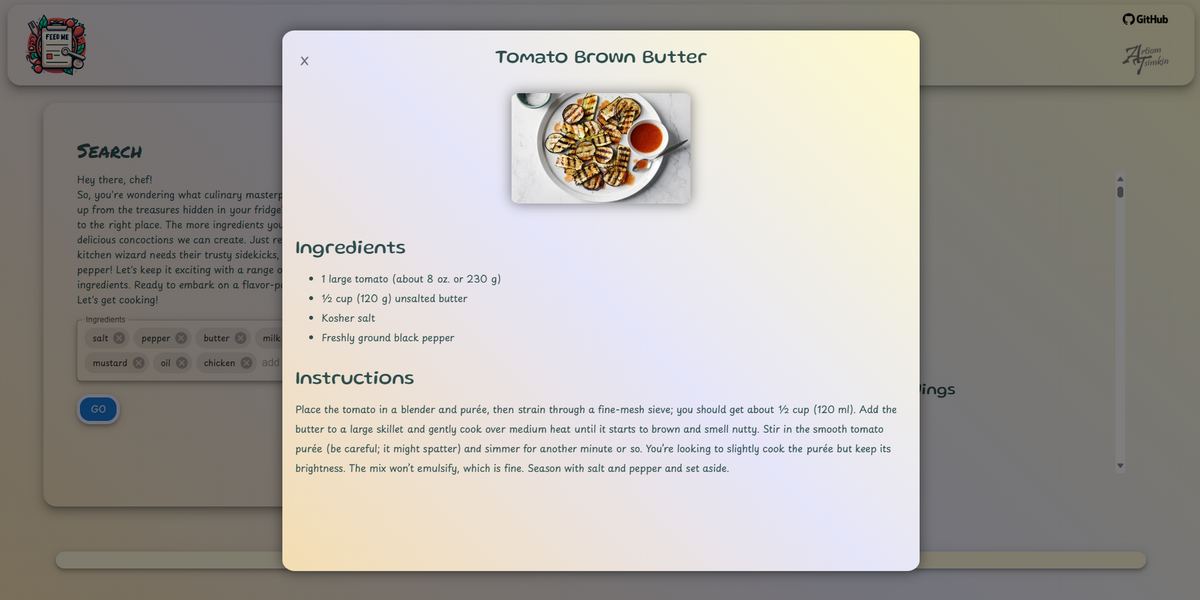
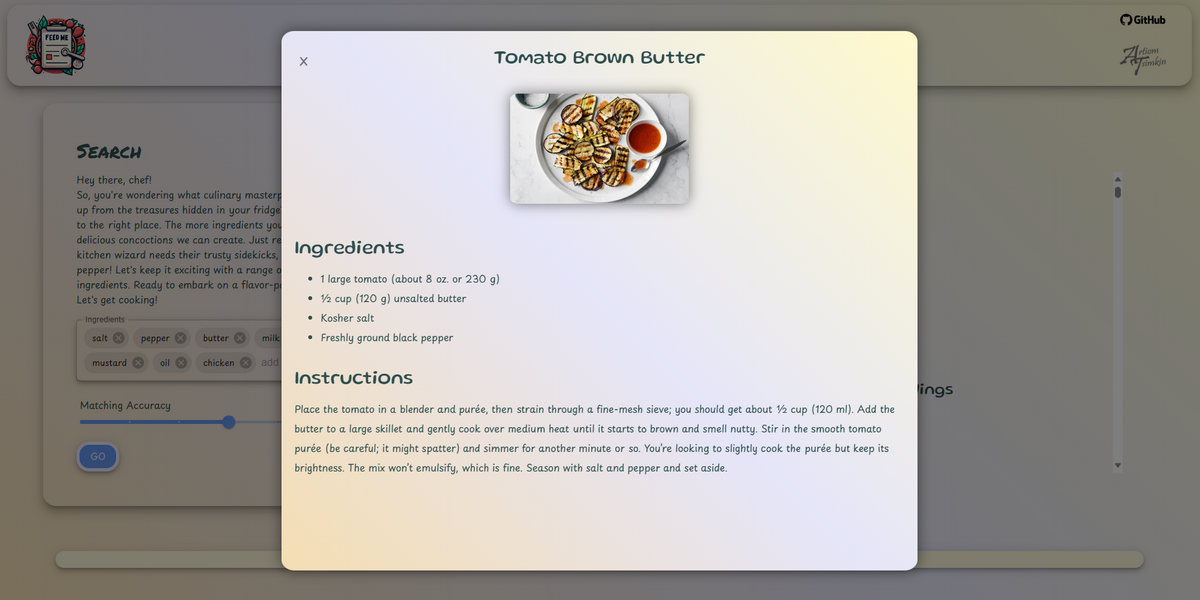
docs: add matching accuracy

diff --git a/README.md b/README.md
@@ -6,7 +6,7 @@ Available at: [feed-me.onrender.com](https://feed-me.onrender.com/)
 
 ### Overview
 
-A modern fun and responsive web app that is based on React-Django-Redis. it can offer you culinary ideas based on what ingredients are available in your fridge. While featuring over 12,000 recipes with over 1,000 ingredients, and suggesting base ingredients, the app will showcase images, complete lists of ingredients, and detailed cooking instructions.
+A modern and responsive web app, built on React-Django-Redis, that enhances your culinary experience. Discover exciting recipes based on the ingredients in your fridge, with a unique matching threshold feature. With over 12,000 recipes, 1,000 ingredients, and helpful suggestions for base ingredients, the app provides images, comprehensive ingredient lists, and detailed cooking instructions.
 
 ## Front-end
 
